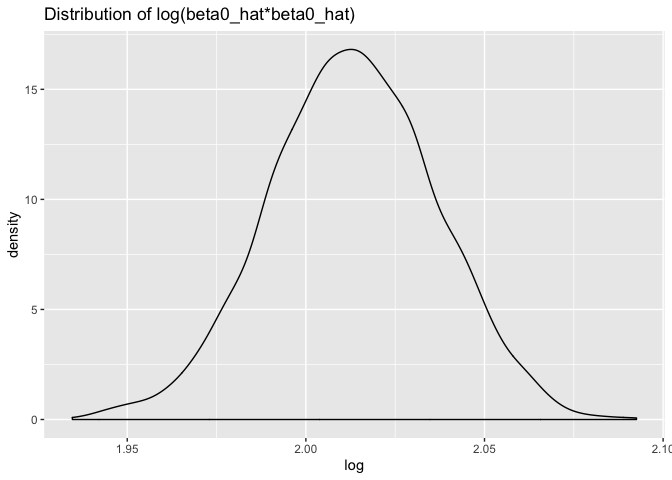
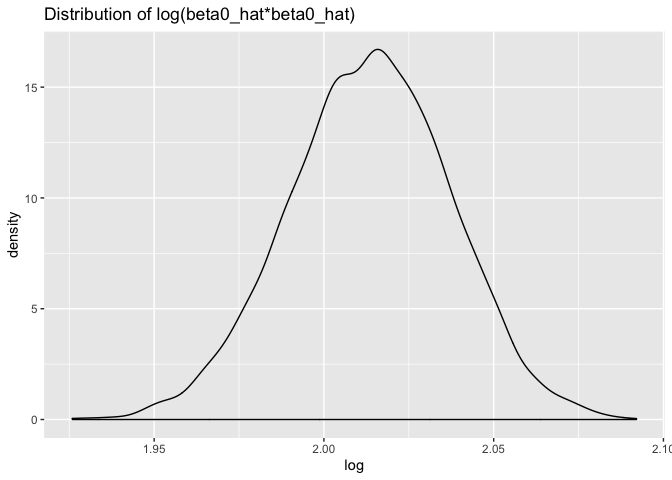
Problem 1 modification

diff --git a/p8105_hw6_sl4659.md b/p8105_hw6_sl4659.md
@@ -11,14 +11,14 @@ Shenglin Liu
 library(tidyverse)
 ```
 
-    ## ── Attaching packages ────────────────────────────────────────────────────────── tidyverse 1.2.1 ──
+    ## ── Attaching packages ───────────────────────────────────────── tidyverse 1.2.1 ──
 
     ## ✔ ggplot2 3.2.1     ✔ purrr   0.3.3
     ## ✔ tibble  2.1.3     ✔ dplyr   0.8.3
     ## ✔ tidyr   1.0.0     ✔ stringr 1.4.0
     ## ✔ readr   1.3.1     ✔ forcats 0.4.0
 
-    ## ── Conflicts ───────────────────────────────────────────────────────────── tidyverse_conflicts() ──
+    ## ── Conflicts ──────────────────────────────────────────── tidyverse_conflicts() ──
     ## ✖ dplyr::filter() masks stats::filter()
     ## ✖ dplyr::lag()    masks stats::lag()
 
@@ -200,8 +200,8 @@ ggplot(bw_df, aes(x = fitted_value, y = residual)) + geom_point() + labs(title =
 ![](p8105_hw6_sl4659_files/figure-gfm/buildmodel3-1.png)<!-- -->
 
 Residuals form a horizontal (linear) ‘band’ around zero: above and below
-(indication of equal
-variance).
+(indication of equal variance) with some outliers in the upper left
+corner.
 
 ### Compare to two other models
 
@@ -306,7 +306,7 @@ quantile(tidy_df$log, c(.025, .975))
 ```
 
     ##     2.5%    97.5% 
-    ## 1.966234 2.059008
+    ## 1.965588 2.059668
 
 The distribution of log(beta0\_hat\*beta0\_hat) basically follows
 normality while having a bit tail extending to low values, features that
@@ -329,7 +329,7 @@ quantile(glance_df$r.squared, c(.025, .975))
 ```
 
     ##      2.5%     97.5% 
-    ## 0.8939742 0.9274581
+    ## 0.8934567 0.9273534
 
 Similar to log(beta0\_hat\*beta0\_hat), the distribution of r.squared
 has an approximately bell-shaped curve that suggests normality, while it
